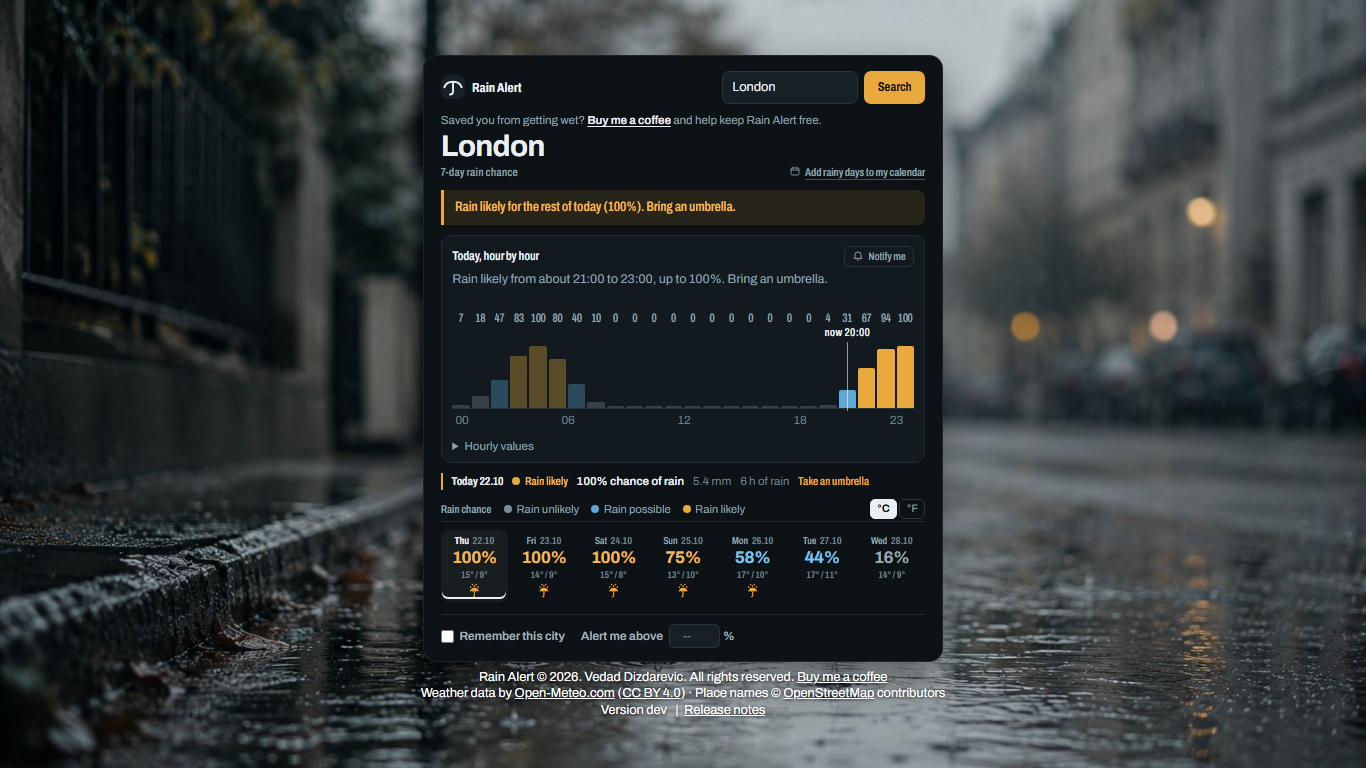
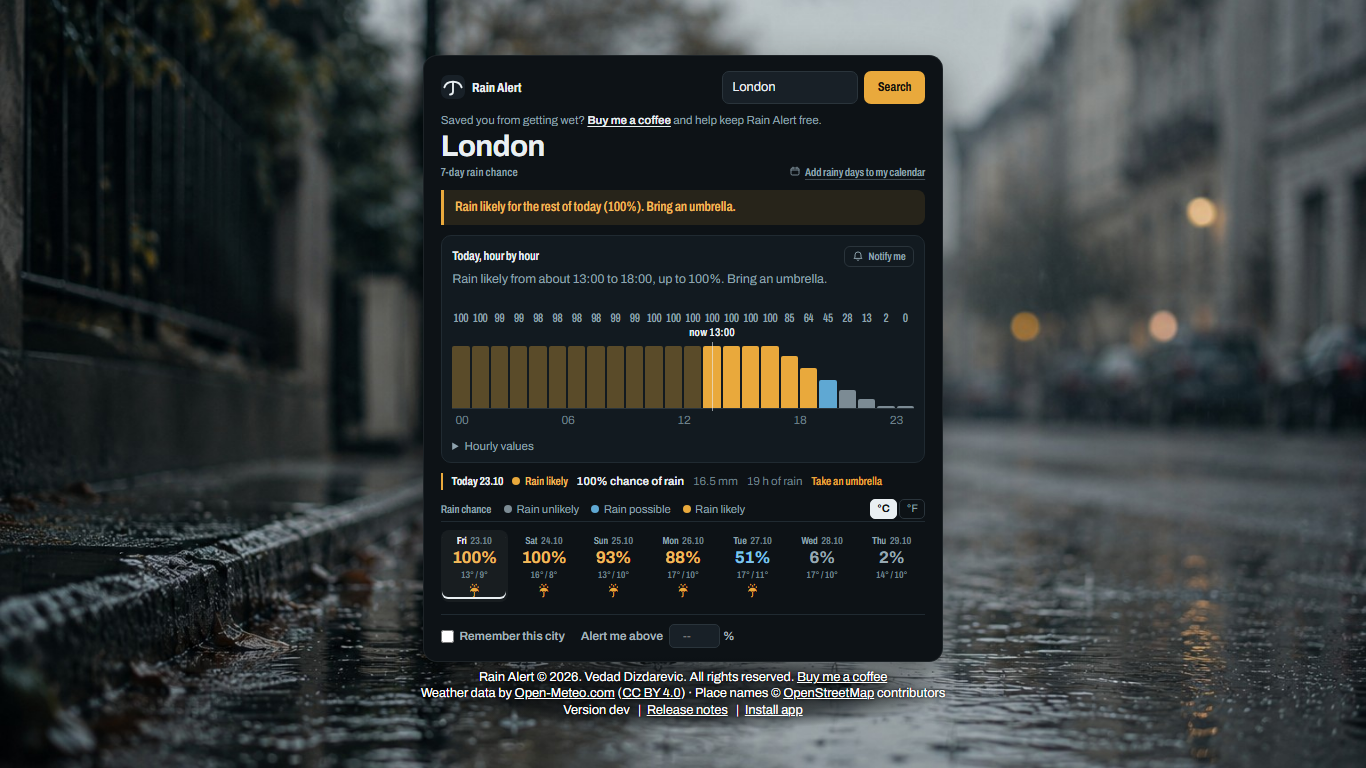
Document the security headers, refresh the screenshot
Add a Security headers section to the README, list security.py in the
layout, retake the README screenshot, and correct the live version to
1.1.0 in the README and CLAUDE.md.

diff --git a/README.md b/README.md
@@ -13,7 +13,7 @@ Both APIs are free, keyless, and need no signup. There is no database, no
 user accounts, and nothing to configure before running it.
 
 > **The site is live at <https://rainalert.live/>** — the real page, on the
-> `1.0.1` image, with every route answering. The app also runs locally —
+> `1.1.0` image, with every route answering. The app also runs locally —
 > see [Quick start](#quick-start). `DEPLOY.md` is the runbook.
 
 ![Rain Alert showing a 7-day forecast for London](docs/screenshot.png)
@@ -699,6 +699,33 @@ look up is better than an endless index.
 
 ---
 
+## Security headers
+
+Every response — pages, the API, the 404, the manifest and the worker —
+carries the same set of headers, added in one place
+(`rainalert/web/security.py`):
+
+| Header | Value |
+|---|---|
+| `Content-Security-Policy` | `default-src 'none'`, with `'self'` for script, style, img, font, connect, manifest and worker; `form-action 'self'`, `base-uri 'none'`, `frame-ancestors 'none'`, `object-src 'none'` |
+| `Strict-Transport-Security` | `max-age=31536000`, sent only when the request came over HTTPS |
+| `X-Frame-Options` | `DENY` |
+| `X-Content-Type-Options` | `nosniff` |
+| `Referrer-Policy` | `strict-origin-when-cross-origin` |
+| `Permissions-Policy` | camera, microphone, geolocation, payment, usb and interest-cohort switched off |
+
+The policy can be this tight because the site loads nothing from anyone
+else: the font, the photograph, the script and the stylesheet are its own,
+and the two forecast services are called by the server, not the browser. It
+allows no inline script or style, so a template must use classes in
+`static/style.css` rather than a `style` attribute. The JSON-LD block is
+data, not code, and needs no allowance. HSTS is sent only over HTTPS — behind
+Render's proxy the app reads `X-Forwarded-Proto` — and carries no
+`includeSubDomains` or `preload`. An offline test fails when a page gains
+inline code or a third-party address.
+
+---
+
 ## Donations and data credits
 
 **Donation link.** Set `DONATION_URL` to your donation page — for this site
@@ -771,6 +798,7 @@ RainAlert/
 │       ├── pages.py             # the pages
 │       ├── api.py               # /api/alert and /calendar.ics
 │       ├── site.py              # robots, sitemap, manifest, service worker, 404
+│       ├── security.py          # the security headers on every response
 │       └── common.py            # what the routes share
 ├── templates/
 │   ├── index.html               # the start page and the forecast
@@ -1061,15 +1089,16 @@ exception text is always logged, never rendered on the page.
 too, from `python app.py` or `docker compose up`. Checked on 2026-10-23:
 
 - The app answers at <https://rainalert.live/> — the real page, on the
-  `1.0.1` image, with the footer reading "Version 1.0.1 · build e045be4".
+  `1.1.0` image, with the footer reading "Version 1.1.0 · build 34fc8b2".
   `http://` redirects to `https://`, and every route answers.
-- Two release tags have been cut (`v1.0` and `v1.0.1`, both on `main`), so
-  the push-and-deploy half of the CI workflow has fired twice. The first
+- Three release tags have been cut (`v1.0`, `v1.0.1` and `v1.1.0`, all on
+  `main`), so the push-and-deploy half of the CI workflow has fired three
+  times. The first
   release failed four times before it passed: at the Docker Hub login, at
   the push (the token had the Read scope, and a push needs Read & Write),
   in the browser suite, and at the deploy hook (the `RENDER_DEPLOY_HOOK_URL`
-  secret was not set). The second was green on its first attempt, and a
-  release is one `git tag`.
+  secret was not set). The later ones were green on their first attempt, and
+  a release is one `git tag`.
 - The Docker Hub repository `lasiurusbat/rainalert` is public and has
   tags `1.0`, `1.0.1` and `1.1.0`, the last being the one the live service
   is running. `render.yaml` already names `1.1.1`, the release in

diff --git a/CLAUDE.md b/CLAUDE.md
@@ -9,10 +9,10 @@ Both APIs are free, keyless, and need no signup. There is no database and no
 user account system.
 
 **The app is deployed and live at <https://rainalert.live/>.** It runs
-from the `1.0.1` image on Docker Hub, on a Render service, and the domain
+from the `1.1.0` image on Docker Hub, on a Render service, and the domain
 is attached to it: `http://` redirects to `https://`, and every route
-answers. Two release tags have been cut — `v1.0` on 2026-10-22 and
-`v1.0.1` on 2026-10-23 — the images they built were pushed, and the
+answers. Three release tags have been cut — `v1.0` on 2026-10-22,
+`v1.0.1` and `v1.1.0` on 2026-10-23 — the images they built were pushed, and the
 workflow's deploy hook has deployed them. It
 also runs locally, from `python app.py` or `docker compose up`. `DEPLOY.md`
 is the runbook, and the "Still to do" section below is the list of what is
@@ -78,8 +78,8 @@ gets none of them, because the offline suite asserts the app's own defaults.
   `gcp-us-west1-1.origin.onrender.com`, resolving to `216.24.57.16` and
   `216.24.57.18`. `http://` answers `301` to `https://`; `https://` answers
   `200` with the real page, and a city's page with a live forecast from
-  both upstreams. The footer reads "Version 1.0.1 · build e045be4", which is
-  the commit the `v1.0.1` tag points at, so the build that is answering is
+  both upstreams. The footer reads "Version 1.1.0 · build 34fc8b2", which is
+  the commit the `v1.1.0` tag points at, so the build that is answering is
   the build that was released.
 - **Every route answers on the live domain**: the start page, `/cities`,
   `/release-notes`, `/robots.txt`, `/sitemap.xml`, `/manifest.json`,
@@ -87,9 +87,10 @@ gets none of them, because the offline suite asserts the app's own defaults.
   a `404` for an address that is not on the site. Each page's canonical
   link is its own address under `https://rainalert.live/`, which is what
   `SITE_URL` says.
-- **The image is on Docker Hub.** `lasiurusbat/rainalert` has two tags:
-  `1.0`, pushed on 2026-10-22, and `1.0.1`, pushed on 2026-10-23 by the
-  second release run. The second one is what the live service is running.
+- **The image is on Docker Hub.** `lasiurusbat/rainalert` has three tags:
+  `1.0`, pushed on 2026-10-22, `1.0.1` and `1.1.0`, pushed on 2026-10-23.
+  The last one is what the live service is running; `1.1.1`, the release
+  in preparation, adds the security headers.
 - **The donation link is on the live page.** The service runs with
   `DONATION_URL` set, so "Buy me a coffee" appears under the search and
   in the footer of every page. The variable is read at start-up, so
